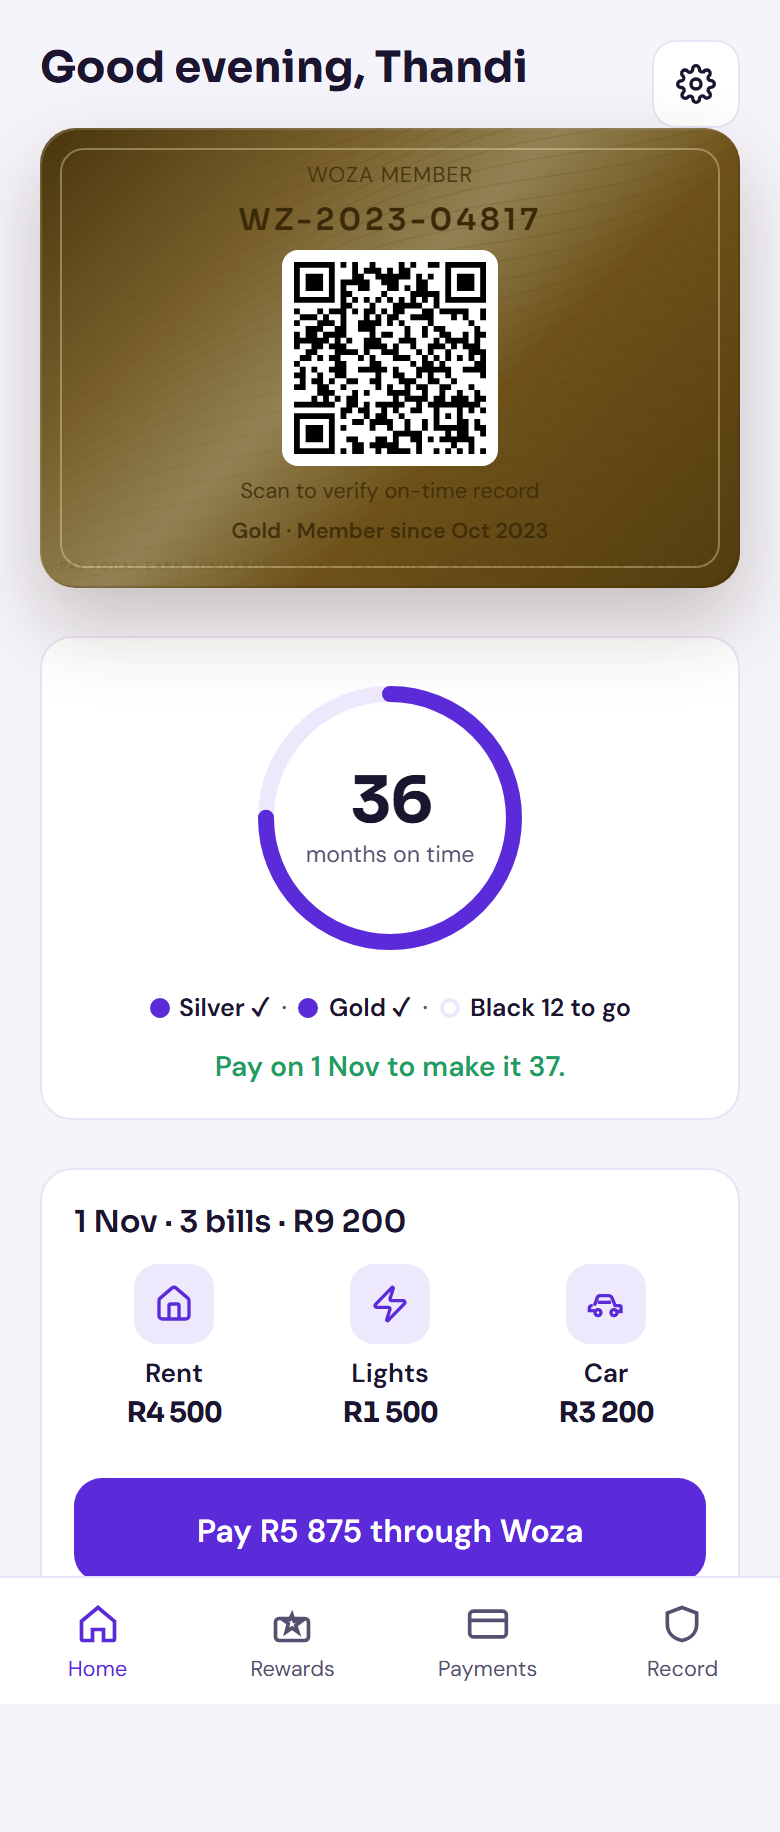
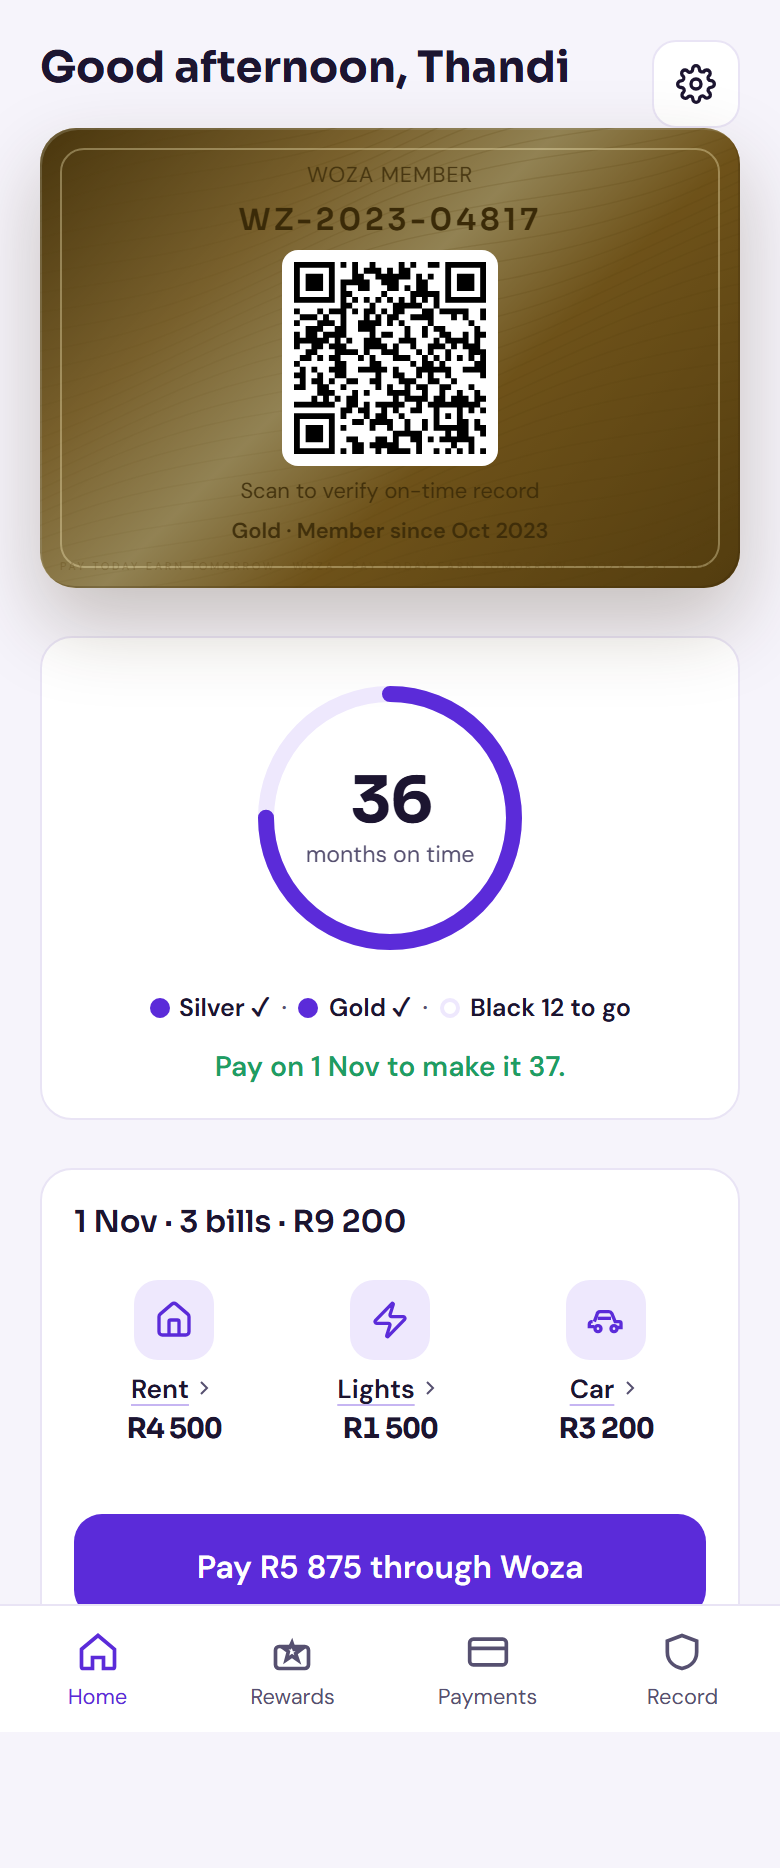
fix: contain sheets in phone frame on desktop, flip chip once, tappable bills

diff --git a/static/index.html b/static/index.html
@@ -31,7 +31,7 @@
   <link rel="preconnect" href="https://fonts.gstatic.com" crossorigin />
   <link rel="stylesheet" href="https://fonts.googleapis.com/css2?family=DM+Sans:wght@400;500;600&family=Sora:wght@600;700&display=swap" media="print" onload="this.media='all'" />
   <noscript><link rel="stylesheet" href="https://fonts.googleapis.com/css2?family=DM+Sans:wght@400;500;600&family=Sora:wght@600;700&display=swap" /></noscript>
-  <link rel="stylesheet" href="/static/woza-card.css?v=31" />
+  <link rel="stylesheet" href="/static/woza-card.css?v=32" />
   <style>
     :root {
       --bg: #F6F4FB;
@@ -160,10 +160,27 @@
       display: grid; grid-template-columns: 1fr 1fr 1fr; gap: 8px;
       margin: 12px 0;
     }
-    .month-bill { text-align: center; min-width: 0; }
+    .month-bill {
+      text-align: center; min-width: 0;
+      padding: 8px 4px 10px; border-radius: 12px;
+      min-height: 44px;
+    }
     .month-bill .icon-wrap { margin: 0 auto 6px; }
-    .month-bill .row-title { font-size: 0.82rem; }
+    .month-bill .row-title {
+      font-size: 0.82rem;
+      text-decoration: underline;
+      text-decoration-color: rgba(91, 43, 217, 0.35);
+      text-underline-offset: 3px;
+    }
     .month-bill .font-num { font-size: 0.88rem; margin-top: 2px; }
+    .month-bill-chevron {
+      display: inline-block; width: 12px; height: 12px; margin-left: 2px;
+      vertical-align: -1px;
+    }
+    .month-bill-chevron svg {
+      width: 12px; height: 12px; stroke: var(--muted); fill: none; stroke-width: 2;
+    }
+    .month-bill:active, .month-bill.is-press { background: var(--primary-soft); }
     .login-or {
       text-align: center; color: var(--muted); font-size: 0.82rem;
       margin: 16px 0 8px;
@@ -792,7 +809,8 @@
       .desk-line { color: var(--muted); font-size: 0.95rem; line-height: 1.45; }
       .desk-hint { margin-top: 20px; font-size: 0.78rem; color: var(--muted); }
       .phone-frame {
-        display: block; flex-shrink: 0; box-sizing: content-box;
+        display: block; position: relative; overflow: hidden; flex-shrink: 0;
+        box-sizing: content-box;
         width: 390px; height: 844px; padding: 12px;
         background: #1C1530; border-radius: 44px;
         box-shadow: 0 28px 64px rgba(28, 21, 48, 0.22), 0 6px 18px rgba(28, 21, 48, 0.1);
@@ -820,11 +838,28 @@
         transform: none; width: 100%; max-width: none;
         border-radius: 0 0 32px 32px;
       }
-      .sheet {
-        left: 0; width: 100%; max-width: none;
-        transform: translateY(100%);
+      .sheet-backdrop,
+      .sheet,
+      .toast,
+      .streak-moment {
+        position: absolute;
+        max-width: 390px;
       }
-      .sheet.open { transform: translateY(0); }
+      .sheet-backdrop { inset: 0; }
+      .sheet {
+        left: 50%; bottom: 0; width: 100%;
+        transform: translate(-50%, 100%);
+        max-height: calc(100% - 12px);
+      }
+      .sheet.open { transform: translate(-50%, 0); }
+      .toast {
+        left: 50%;
+        bottom: calc(var(--nav-h) + var(--safe-b) + 12px);
+      }
+      .streak-moment {
+        left: 50%; top: 0; transform: translateX(-50%);
+        width: 100%; height: 100%;
+      }
       .phone-screen .screen,
       .phone-screen .login-wrap {
         scrollbar-width: thin;
@@ -903,7 +938,7 @@
     </div>
   </div>
   <script src="/static/qrcode.js"></script>
-  <script src="/static/woza-card.js?v=31"></script>
+  <script src="/static/woza-card.js?v=32"></script>
 
   <script>
     const IC = {
@@ -1026,6 +1061,7 @@
     let scrollBillId = null;
     let progressOpen = 0;
     let homeIntroPlayed = false;
+    let flipHintSeen = false;
     let homeIntroTimers = [];
     let streakHold = null;
     let toastTimer = null;
@@ -1146,13 +1182,23 @@
 
     function membershipCard(u, compact) {
       syncWozaCardConfig();
-      return WozaCard.membershipCardStageHtml(u, compact, { hint: !compact });
+      return WozaCard.membershipCardStageHtml(u, compact, { hint: !compact && !flipHintSeen });
     }
 
     function bindMembershipCards() {
       syncWozaCardConfig();
       WozaCard.bindMembershipCards();
       WozaCard.bindCardFlips();
+      document.querySelectorAll("[data-card-flip]").forEach((stage) => {
+        if (stage._hintBound) return;
+        stage._hintBound = true;
+        stage.addEventListener("click", (e) => {
+          if (e.target.closest("button")) return;
+          if (flipHintSeen) return;
+          flipHintSeen = true;
+          stage.querySelectorAll(".card-flip-hint").forEach((el) => el.remove());
+        });
+      });
     }
 
     function prefersReduced() {
@@ -1387,11 +1433,11 @@
         lineHtml = `<p class="home-status">Pay on ${escapeHtml(due)} to make it ${months + 1}.</p>`;
       }
       const monthBills = bills.map((b) => `
-        <div class="month-bill">
+        <button type="button" class="month-bill" data-month-bill="${Number(b.id)}">
           <span class="icon-wrap">${IC[b.category] || IC.rent}</span>
-          <div class="row-title">${escapeHtml(shortBillName(b))}</div>
+          <div class="row-title">${escapeHtml(shortBillName(b))}<span class="month-bill-chevron">${IC.chevron}</span></div>
           <div class="font-num">${escapeHtml(b.amount_display || randFromCents(b.amount_cents))}</div>
-        </div>`).join("");
+        </button>`).join("");
       const payBtnHtml = (p.payable_outstanding && payAmt)
         ? `<button type="button" class="btn-primary" id="homePayWoza">Pay ${escapeHtml(payAmt)} through Woza</button>`
         : "";
@@ -1430,6 +1476,14 @@
       }
       const gear = document.getElementById("homeGear");
       if (gear) gear.onclick = openHomeSettings;
+      document.querySelectorAll("#thisMonth [data-month-bill]").forEach((btn) => {
+        btn.onclick = () => {
+          const bill = paymentBillById(btn.dataset.monthBill);
+          if (!bill) return;
+          if (bill.category === "car" || bill.is_bank_debit) openCarDebitSheet(bill);
+          else openPaySheet(bill);
+        };
+      });
     }
 
     function renderPayments() {
@@ -1995,6 +2049,17 @@
       }
     }
 
+    function openCarDebitSheet(bill) {
+      const amt = bill.amount_display || randFromCents(bill.amount_cents);
+      const due = dueShortDate();
+      openSheet(`
+        <h3>Car instalment · ${escapeHtml(amt)} · debit order ${escapeHtml(due)} · confirmed by your bank when it clears</h3>
+        <div class="sheet-actions">
+          <button type="button" class="btn-secondary" id="closeCarDebit">Close</button>
+        </div>`);
+      document.getElementById("closeCarDebit").onclick = closeSheet;
+    }
+
     function openPaySheet(bill) {
       openSheet(`
         <h3>${escapeHtml(bill.pay_sheet_title)}</h3>
@@ -2065,6 +2130,7 @@
         recordMode = "record";
         rewardsTab = "redeem";
         armHomeIntro();
+        flipHintSeen = false;
         try { sessionStorage.removeItem("woza.flipHint"); } catch { /* ignore */ }
         closeSheet();
         renderAll();
@@ -2172,7 +2238,7 @@
     }
     if ("serviceWorker" in navigator) {
       if (useServiceWorker()) {
-        navigator.serviceWorker.register("/static/sw.js?v=31").catch(() => {});
+        navigator.serviceWorker.register("/static/sw.js?v=32").catch(() => {});
       } else {
         navigator.serviceWorker.getRegistrations().then((regs) => {
           regs.forEach((r) => r.unregister());

diff --git a/static/sw.js b/static/sw.js
@@ -1,4 +1,4 @@
-const CACHE = "woza-v31";
+const CACHE = "woza-v32";
 const PRECACHE = [
   "/static/manifest.json",
   "/static/icon.svg",

diff --git a/scripts/screenshots.py b/scripts/screenshots.py
@@ -51,6 +51,7 @@ SCREENS = [
     "lender_view",
     "what_if",
     "settings",
+    "rewards_category_desktop",
 ]
 
 
@@ -377,6 +378,25 @@ def capture_settings(page: Page) -> None:
     page.wait_for_selector("#resetBtn", timeout=10_000)
 
 
+DESKTOP_VIEWPORT = {"width": 1280, "height": 800}
+
+
+def snap_desktop(page: Page, dest: Path) -> None:
+    dest.parent.mkdir(parents=True, exist_ok=True)
+    page.set_viewport_size(DESKTOP_VIEWPORT)
+    page.wait_for_timeout(120)
+    page.screenshot(path=str(dest), full_page=False)
+
+
+def capture_rewards_category_desktop(page: Page, base_url: str) -> None:
+    page.set_viewport_size(DESKTOP_VIEWPORT)
+    sign_in(page, base_url)
+    reset_demo(page, base_url)
+    capture_rewards_category(page)
+    page.wait_for_selector("#sheet.open", timeout=10_000)
+    page.wait_for_selector("#rewardCarousel .reward-card", timeout=10_000)
+
+
 CAPTURE_FNS = {
     "login": lambda page, base_url: capture_login(page, base_url),
     "home": lambda page, base_url: capture_home(page),
@@ -393,6 +413,7 @@ CAPTURE_FNS = {
     "lender_view": lambda page, base_url: capture_lender_view(page),
     "what_if": lambda page, base_url: capture_what_if(page),
     "settings": lambda page, base_url: capture_settings(page),
+    "rewards_category_desktop": lambda page, base_url: capture_rewards_category_desktop(page, base_url),
 }
 
 
@@ -519,7 +540,7 @@ def main() -> int:
             reset_demo(page, base_url)
 
             for name in SCREENS:
-                if name == "login":
+                if name == "login" or name == "rewards_category_desktop":
                     continue
                 try:
                     close_sheets(page)
@@ -551,6 +572,27 @@ def main() -> int:
                     except Exception:
                         pass
                     print(f"  FAIL {name}: {exc}", flush=True)
+
+            try:
+                desk_ctx = browser.new_context(
+                    viewport=DESKTOP_VIEWPORT,
+                    device_scale_factor=1,
+                    is_mobile=False,
+                    has_touch=False,
+                    reduced_motion="reduce",
+                )
+                desk = desk_ctx.new_page()
+                desk.set_default_navigation_timeout(25_000)
+                desk.set_default_timeout(15_000)
+                capture_rewards_category_desktop(desk, base_url)
+                wait_settled(desk)
+                snap_desktop(desk, LATEST_DIR / "rewards_category_desktop.png")
+                captured.append("rewards_category_desktop")
+                print("  OK  rewards_category_desktop", flush=True)
+                desk_ctx.close()
+            except Exception as exc:
+                failed.append(f"rewards_category_desktop: {exc}")
+                print(f"  FAIL rewards_category_desktop: {exc}", flush=True)
 
             context.close()
             browser.close()
